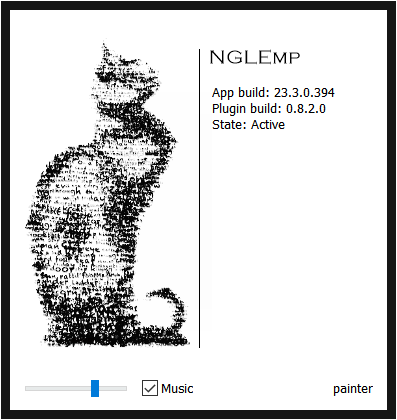
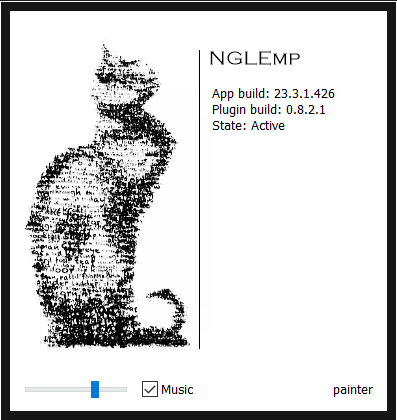
NGLEmp 0.8.2.1. Support for Adobe Photoshop `2022`: `23.3.1`

diff --git a/DOWNLOAD.md b/DOWNLOAD.md
@@ -37,27 +37,28 @@ Get valid checksums [online at NGLEmp project page][integrity].
 
 BLAKE3 and SHA-1 checksums of main files (stored in `NGLEmp.b3` and `NGLEmp.sha1`):
 
-<a name="v0820"></a>
+<a name="v0821"></a>
 
-## NGLEmp 0.8.2.0
+## NGLEmp 0.8.2.1
 
 For Adobe Photoshop 2022, 2021, CC 2019-2020.
 
 ### BLAKE3
 
 ```
-879c7cb5bcb4b2b5d89195634e47e78f9a4c143dbad30f7978e5a83cd728c4e8  NGLEmp.8bx
-df3e014fe6a2886b027c66adaba9c9b62926cddde530768e67f964f025eeeffd  painter.cfg
+6666fbb0c4f48cfd1edb75c4deb92f83360068b527bab43d74c59802d8becd7d  NGLEmp.8bx
+00ccf5773d7bf091810c2eee1cb76c38f786c8b4145a92f9a5df5375f45f5223  painter.cfg
 ```
 
 ### SHA-1
 
 ```
-9ae8f6c934e7a431ece91c2c40615e40243a31cd *NGLEmp.8bx
-69a1167e7022ba7538fa6984dc890436882a6092 *painter.cfg
+4ff045dc267a8349343ee8b0b8fbd6e4ebe39aac *NGLEmp.8bx
+31f4b686dc5086f5df498dc9176df98038ae8bd9 *painter.cfg
 ```
 
 <!-- Archived version -->
+<a name="v0820"></a>
 <a name="v0810"></a>
 <a name="v0800"></a>
 <a name="v0720"></a>
@@ -104,9 +105,10 @@ painter.cfg: OK
 
 
 <!-- Current NGLEmp release -->
-[nglemp.release]: https://mega.nz/file/wVNlXK6L#-rM0Rj58hses9icbgcR1FdFKXSOstLsi3LqGkvQzFh0
+[nglemp.release]: https://mega.nz/file/EN0EnIiA#o6PuWoSlMsQ__-Dttqn4WeqRCzwO50I3CzPVNghn27A
 [integrity]: https://github.com/NGLEmp/NGLEmp/blob/master/README.md#checksums
 <!-- Previous NGLEmp releases -->
+[nglemp.release.0.8.2.1]: https://mega.nz/file/EN0EnIiA#o6PuWoSlMsQ__-Dttqn4WeqRCzwO50I3CzPVNghn27A
 [nglemp.release.0.8.2.0]: https://mega.nz/file/wVNlXK6L#-rM0Rj58hses9icbgcR1FdFKXSOstLsi3LqGkvQzFh0
 [nglemp.release.0.8.1.0]: https://mega.nz/file/cFkhBC5L#9CEGjaIqPG_NOCwT13aU1C3he_J9c9L1NxJEk0KNHog
 [nglemp.release.0.8.0.0]: https://mega.nz/file/UBVxCAYZ#klhFPh0DQZiqZj5rtgWCmEjYdn87Wy5MbTU1tpbTiJA

diff --git a/README.md b/README.md
@@ -98,11 +98,17 @@ This means:
 
 ## NGLEmp Versions History
 
+### 0.8.2.1
+
+`22 April 2022`
+
+- [x] Support for Adobe Photoshop `2022` (`23.3.1`)
+
 ### 0.8.2.0
 
 `18 April 2022`
 
-- [x] Support for Adobe Photoshop `2022` (`23.3`)
+- [x] Support for Adobe Photoshop `2022` (`23.3.0`)
 
 ### 0.8.1.0
 
@@ -563,6 +569,7 @@ Enjoy!
 
 [cc.desktop.app]: https://www.adobe.com/creativecloud/desktop-app.html
 [nglemp.release]: https://github.com/NGLEmp/NGLEmp/blob/master/DOWNLOAD.md#download
+[nglemp.release.0.8.2.1]: https://github.com/NGLEmp/NGLEmp/blob/master/DOWNLOAD.md#v0821
 [nglemp.release.0.8.2.0]: https://github.com/NGLEmp/NGLEmp/blob/master/DOWNLOAD.md#v0820
 [nglemp.release.0.8.1.0]: https://github.com/NGLEmp/NGLEmp/blob/master/DOWNLOAD.md#v0810
 [nglemp.release.0.8.0.0]: https://github.com/NGLEmp/NGLEmp/blob/master/DOWNLOAD.md#v0800

diff --git a/VERSIONS.md b/VERSIONS.md
@@ -1,5 +1,6 @@
 # NGLEmp Versions
 
+- NGLEmp 0.8.2.1
 - NGLEmp 0.8.2.0
 - NGLEmp 0.8.1.0
 - NGLEmp 0.8.0.0
@@ -7,6 +8,25 @@
 - NGLEmp 0.7.0.0
 - NGLEmp 0.6.9.0
 - NGLEmp 0.5.1.0
+
+
+## NGLEmp 0.8.2.1
+
+For Adobe Photoshop 2022, 2021, CC 2019-2020.
+
+### BLAKE3
+
+```
+6666fbb0c4f48cfd1edb75c4deb92f83360068b527bab43d74c59802d8becd7d  NGLEmp.8bx
+00ccf5773d7bf091810c2eee1cb76c38f786c8b4145a92f9a5df5375f45f5223  painter.cfg
+```
+
+### SHA-1
+
+```
+4ff045dc267a8349343ee8b0b8fbd6e4ebe39aac *NGLEmp.8bx
+31f4b686dc5086f5df498dc9176df98038ae8bd9 *painter.cfg
+```
 
 
 ## NGLEmp 0.8.2.0
